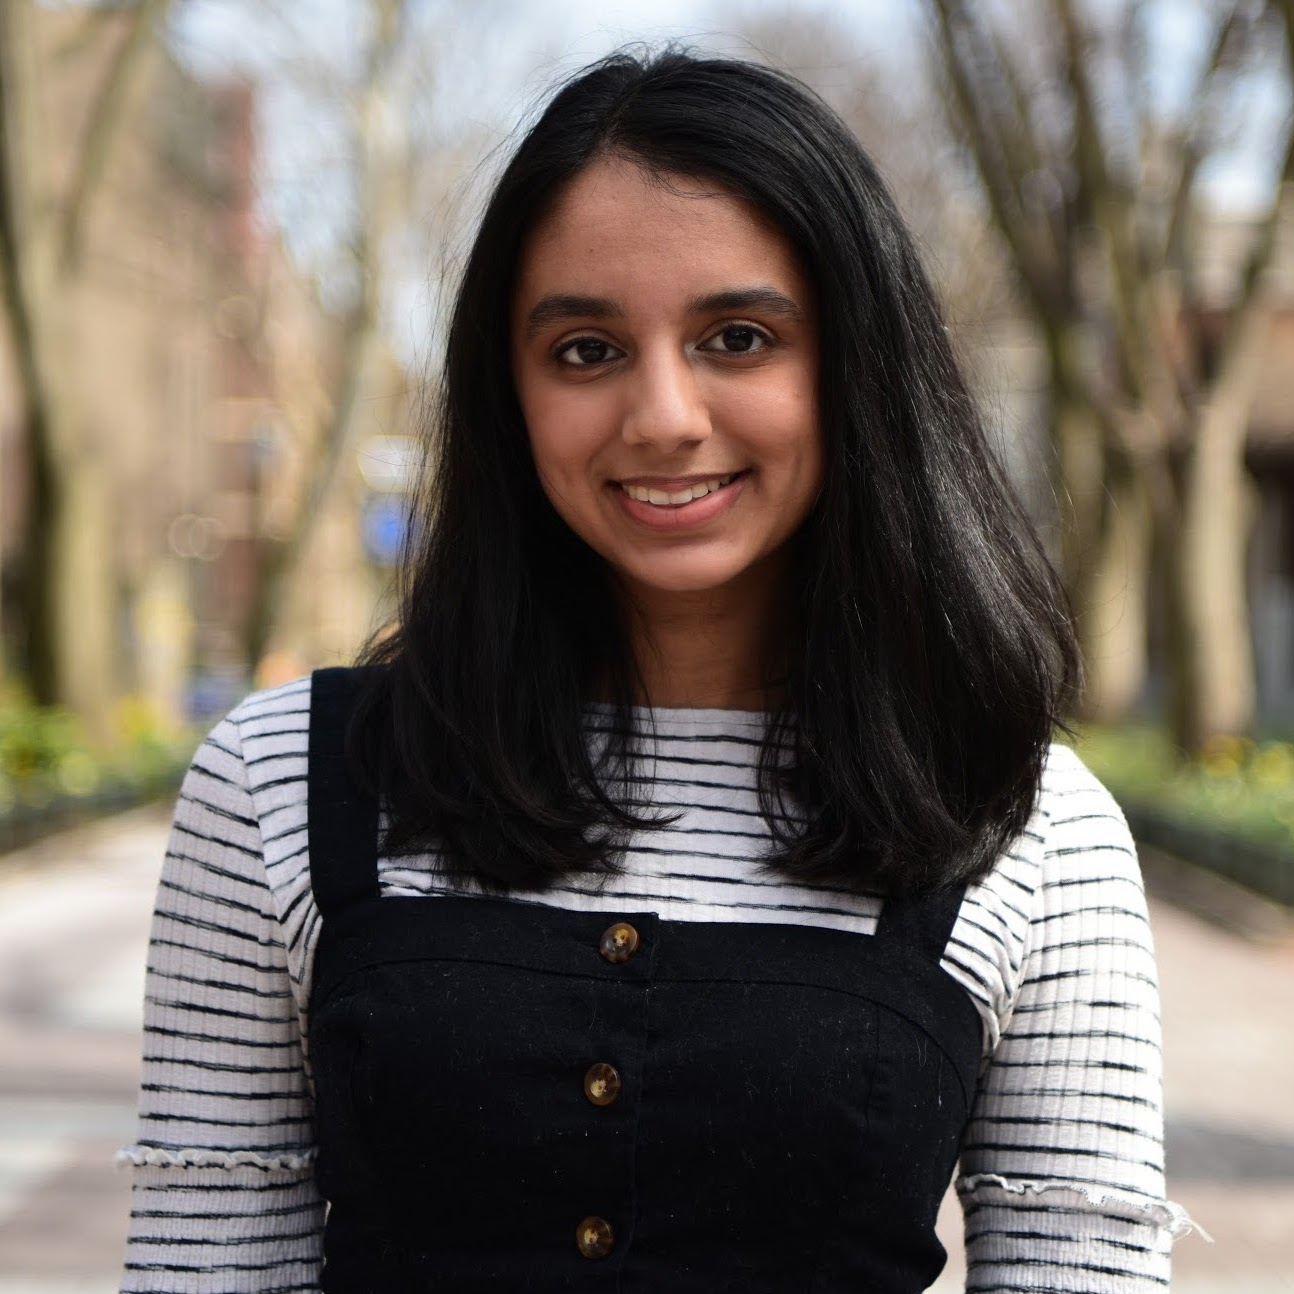
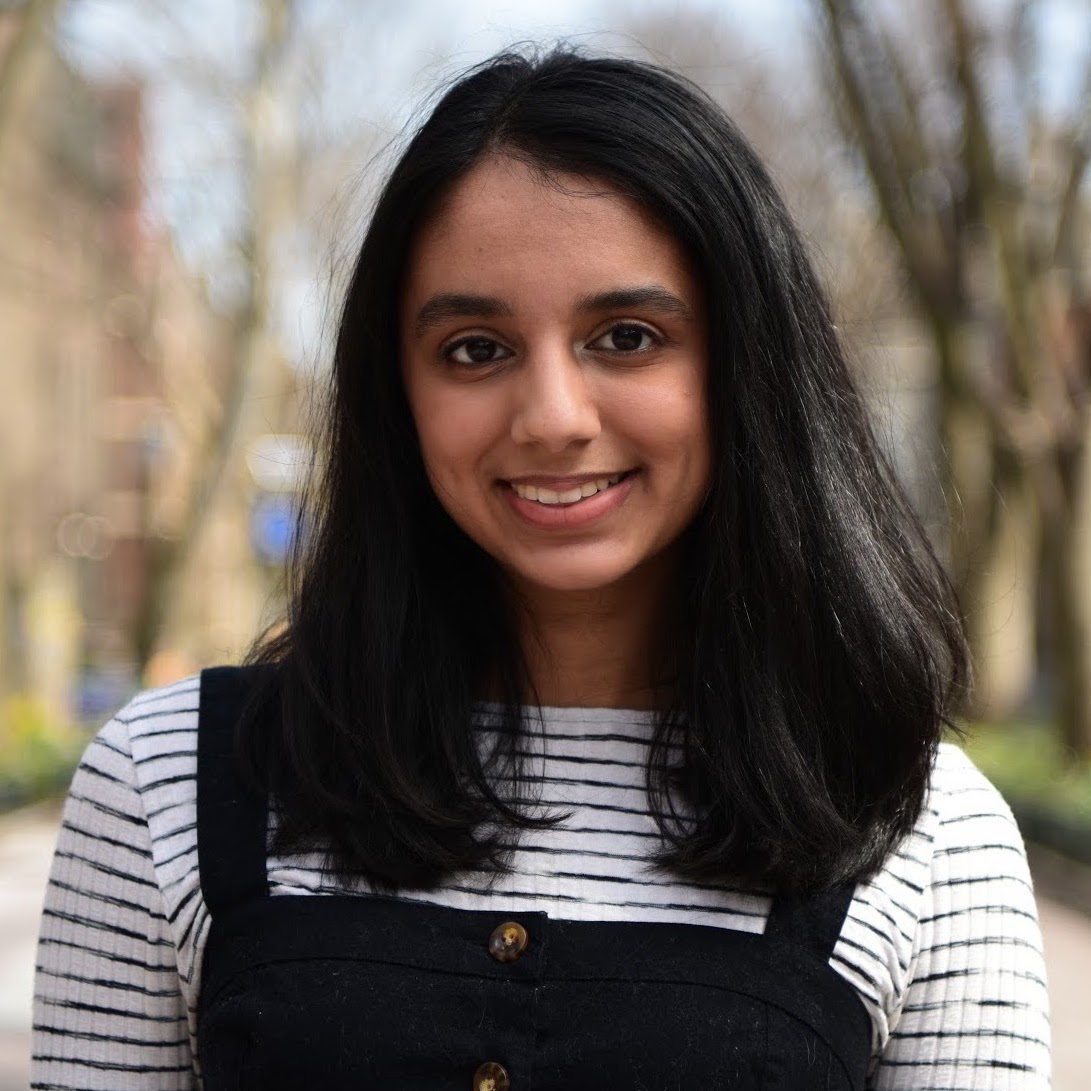
big fix for about.html
fixed big for arushi's picture and cropping for my picture

diff --git a/about.html b/about.html
@@ -129,7 +129,7 @@
         </div>
         <div class="col-md-3">
           <div class="member">
-            <img src="images/uifaces/arushi.JPG" width="128" height="128" />
+            <img src="images/uifaces/arushi.jpg" width="128" height="128" />
           </div>
           <div class="name">
             Arushi Aggarwal
